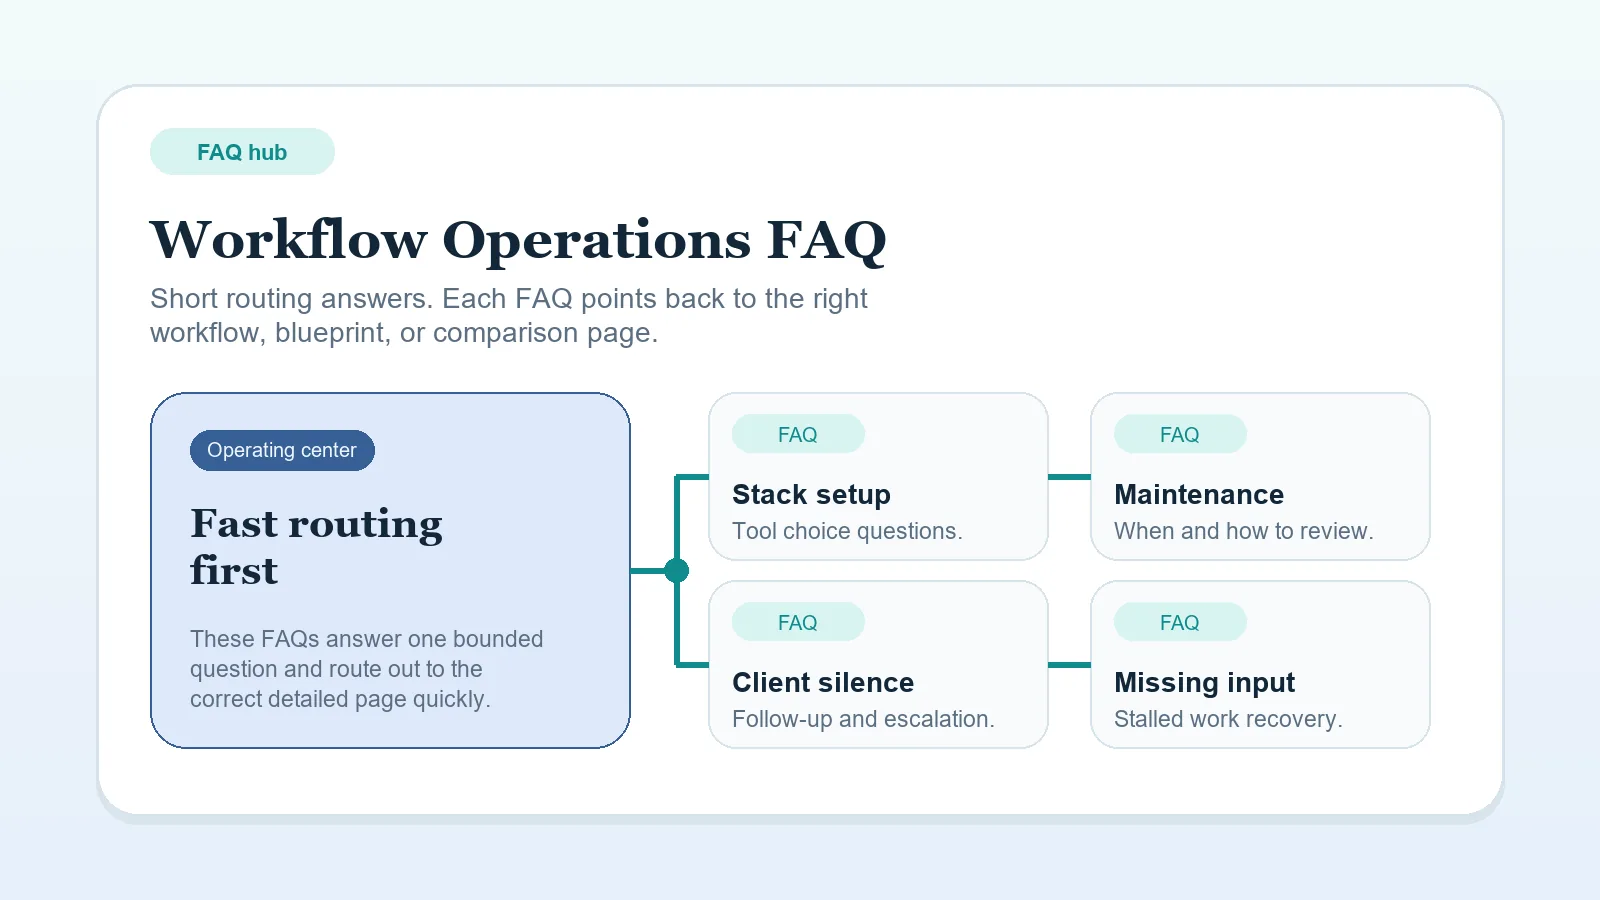
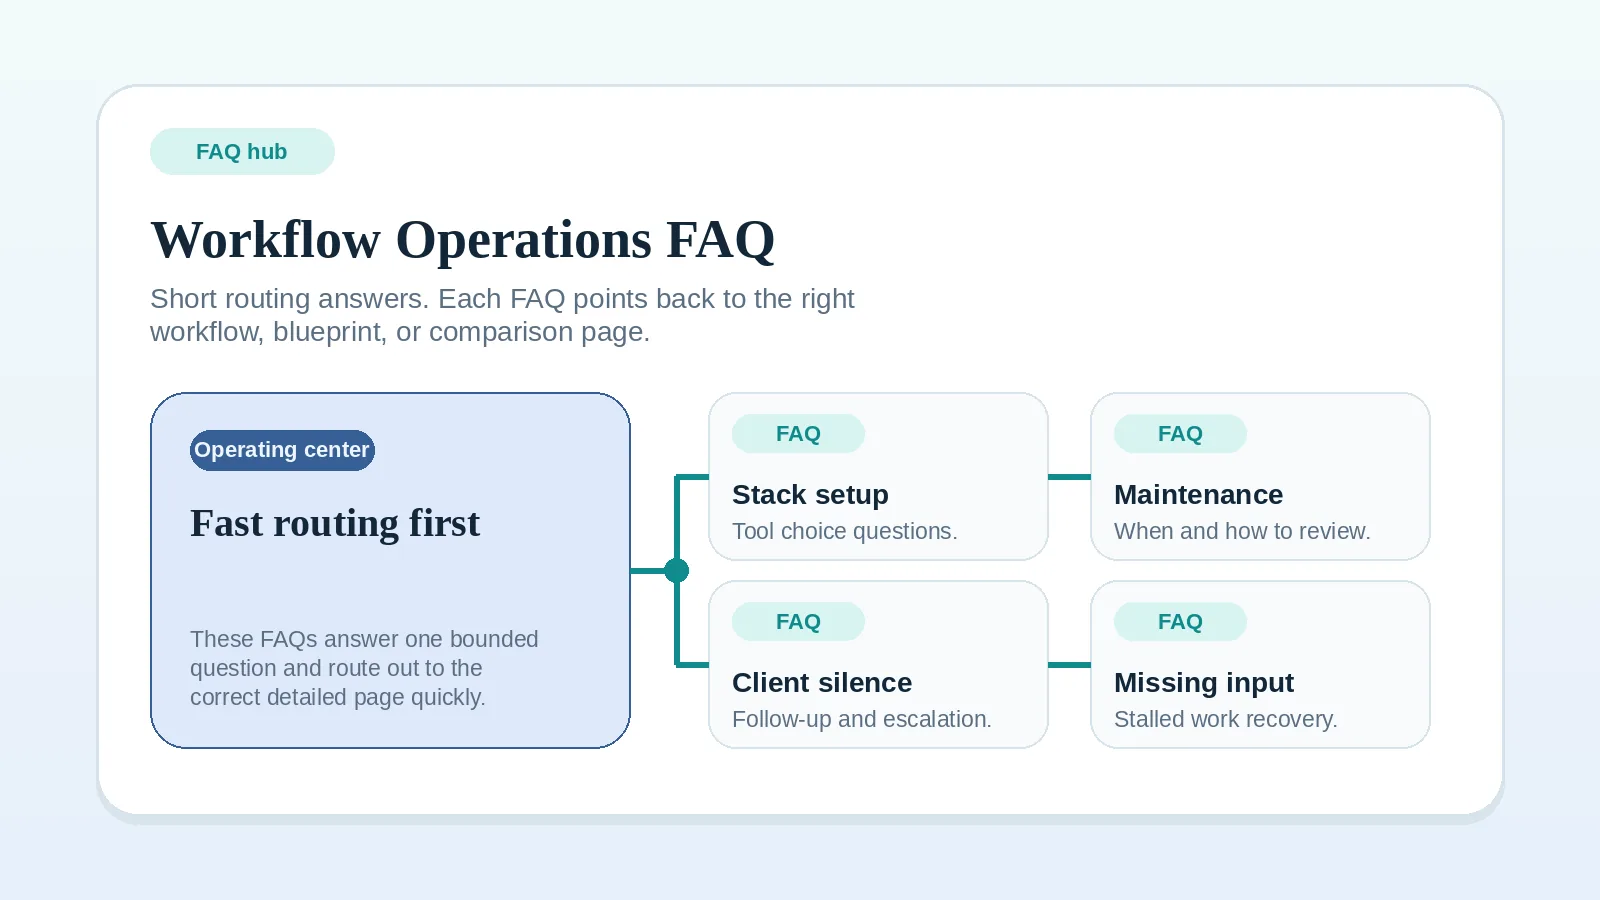
Fix remaining feature images

diff --git a/tools/feature-images/feature_images/templates/hub_overview.py b/tools/feature-images/feature_images/templates/hub_overview.py
@@ -12,7 +12,7 @@ def render_hub_overview(spec, context):
 
     anchor_box = (150, 392, 630, 748)
     helpers["rounded_box"](draw, anchor_box, fill=palette["secondary_soft"], outline=palette["secondary"], width=2, radius=36)
-    helpers["pill"](draw, (190, 430, 374, 470), palette["secondary"], "Operating center", fonts["small"], "#eef6ff")
+    helpers["pill"](draw, (190, 430, 374, 470), palette["secondary"], "Operating center", fonts["pill"], "#eef6ff")
     helpers["draw_text_block"](draw, spec["anchor"]["title"], fonts["panel_title"], palette["ink"], (190, 500, 330, 110), 10, report, "hub anchor title", max_lines=2)
     helpers["draw_text_block"](draw, spec["anchor"]["body"], fonts["card_body"], palette["muted"], (190, 626, 360, 82), 8, report, "hub anchor body", max_lines=3)
 
@@ -25,7 +25,7 @@ def render_hub_overview(spec, context):
     ]
     for box, module in zip(module_boxes, modules):
         helpers["rounded_box"](draw, box, fill="#f8fbfd", outline=palette["stroke"], width=2, radius=28)
-        helpers["pill"](draw, (box[0] + 24, box[1] + 22, box[0] + 156, box[1] + 60), palette["accent_soft"], module["kicker"], fonts["small"], palette["accent"])
+        helpers["pill"](draw, (box[0] + 24, box[1] + 22, box[0] + 156, box[1] + 60), palette["accent_soft"], module["kicker"], fonts["pill"], palette["accent"])
         draw.text((box[0] + 24, box[1] + 86), module["title"], font=fonts["card_title"], fill=palette["ink"])
         helpers["draw_text_block"](draw, module["detail"], fonts["card_body"], palette["muted"], (box[0] + 24, box[1] + 126, 280, 64), 6, report, f"hub module {module['title']}", max_lines=2)
 

diff --git a/tools/feature-images/feature_images/templates/workflow_map.py b/tools/feature-images/feature_images/templates/workflow_map.py
@@ -40,7 +40,7 @@ def render_workflow_map(spec, context):
         box = (x, top_y, x + card_width, top_y + card_height)
         fill = [palette["accent_soft"], palette["secondary_soft"], palette["warm_soft"], palette["good_soft"]][index % 4]
         helpers["rounded_box"](draw, box, fill=fill, outline=palette["stroke"], width=2, radius=28)
-        helpers["pill"](draw, (x + 24, top_y + 24, x + 148, top_y + 68), palette["frame"], item["kicker"], fonts["small"], palette["muted"])
+        helpers["pill"](draw, (x + 24, top_y + 24, x + 148, top_y + 68), palette["frame"], item["kicker"], fonts["pill"], palette["muted"])
         draw.text((x + 28, top_y + 88), item["label"], font=fonts["panel_title"], fill=palette["ink"])
         if index < len(items) - 1:
             draw.line((x + card_width, connector_y, x + card_width + gap, connector_y), fill=palette["accent"], width=8)

diff --git a/TRACKER.md b/TRACKER.md
@@ -10,7 +10,7 @@ Read this after `AGENT.md`. This is the live project tracker for current state, 
 - Priority cluster posture: the workflow cluster remains the strongest first operational path; blueprint and comparison clusters stay downstream of workflow diagnosis.
 - Content structure status: homepage, hubs, cornerstone pages, and support gating have already received multiple tightening passes; support pages should stay subordinate to workflow, blueprint, and comparison pages.
 - Strongest current clusters: client workflow systems, software stack blueprints, workflow comparisons.
-- Current feature-image status: 57 WebPs active across 6 categories (hubs, blueprints, comparisons, templates, glossary, faq, workflows); SVG fallbacks now replaced with WebP for all 4 workflow stage pages; `faq_card.py` fixed — route labels now use `draw_text_block` (overflow-safe), eyebrow pill normalized to `card_title` (28px), route note pills enlarged to `pill` (22px), row height increased from 66px to 74px; all 7 FAQ images regenerated; all 15 remaining checklist/worksheet images regenerated with the updated `checklist_card.py` (40px step labels, 28px tag pills); 4 new workflow WebPs generated (client-onboarding, milestone-delivery, invoice-payment, client-offboarding) using `workflow_map` template; front matter updated for 4 workflow stage pages to reference `.webp` paths.
+- Current feature-image status: 68 WebPs active across 6 categories (hubs, blueprints, comparisons, templates, glossary, faq, workflows); all workflow stage pages now use WebP (SVG fallbacks fully replaced); `workflow_map.py` and `hub_overview.py` kicker/anchor pills normalized from `small` (20px) to `pill` (22px); 6 new workflow WebPs generated (client-intake-qualification, proposal-contract-handoff, proposal-revision-approval, client-status-update, change-request, workflow-automation-basics) using `workflow_map` template; 5 existing workflow WebPs and 8 hub WebPs regenerated with the pill font fix; front matter updated for 6 workflow pages from `.svg` to `.webp`; `workflow-starter-pack` anchor body shortened to fix 3-line overflow.
 - Current build/deploy status: Cloudflare Pages builds from source, and `public/` is generated output that should remain ignored and untracked.
 - Current repo workflow: read `AGENT.md`, read `TRACKER.md`, make a scoped change, update `TRACKER.md`, then commit and push if successful.
 - Current operating rhythm: Claude Code is the daily content/improvement tool; Codex is the default weekly review/fix tool and the monthly deeper audit tool; daily Codex use is reserved for heavy build weeks or pre-AdSense submission.
@@ -66,6 +66,8 @@ Priority URLs to monitor:
 - See `project-docs/BUILD-VALIDATION.md` for the full build/validation reference.
 
 ## Recent completed passes
+
+- 2026-05-03 remaining feature image consistency pass: reviewed workflow guide cards (6 pages still on SVG), workflow/system overview cards, hub overview cards, and workflow starter pack; root causes found: (1) 6 workflow stage pages (client-intake, proposal-contract-handoff, proposal-revision-approval, client-status-update, change-request, workflow-automation-basics) had no `workflow_map` data config — using 2.4KB SVG placeholders; (2) `workflow_map.py` kicker stage-number pills used `fonts["small"]` (20px) — too small at card size; (3) `hub_overview.py` "Operating center" pill and module kicker pills used `fonts["small"]` (20px) — same issue; (4) `workflow-starter-pack` anchor body was too long — truncated at 3 lines with warning; shared template fixes: `workflow_map.py` and `hub_overview.py` kicker/anchor pills changed from `small` (20px) to `pill` (22px); per-image work: 6 new workflow data configs created; 6 new workflow WebPs generated; 5 existing workflow WebPs regenerated (template fix); 8 hub WebPs regenerated (template fix); `workflow-starter-pack` anchor body shortened to resolve overflow warning; front matter updated for 6 workflow pages from `.svg` to `.webp`; all 19 images generated with no warnings; validation: `git diff --check` clean; Hugo build clean with Hugo v0.161.1+extended, 86 pages, no errors, no warnings; `public/` remained ignored/generated; files changed: `workflow_map.py`, `hub_overview.py`, 6 new workflow data configs, 6 new workflow WebPs, 5 existing workflow WebPs, 8 hub WebPs, `workflow-starter-pack.json`, 6 content front matter files, `TRACKER.md`; next recommended action: wait for the next GSC data cycle before another SEO response pass.
 
 - 2026-05-03 feature image audit and consistency pass: reviewed FAQ cards, checklist/template cards, workflow guide cards, and workflow starter pack/supporting hub cards; root causes found: (1) `faq_card.py` used `draw.text()` directly for route labels and problem label — overflow risk for longer labels; eyebrow pill used `fonts["pill"]` (22px) instead of `fonts["card_title"]` (28px), inconsistent with `checklist_card`; route note pills used `fonts["small"]` (20px), too small at card size; row height was 66px; (2) 15 checklist/worksheet images had not been regenerated with the updated `checklist_card.py` from the 2026-05-02 pass — still rendering at old small font sizes (28px step labels, 20px pills); (3) 4 workflow stage pages (client-onboarding, milestone-delivery, invoice-payment, client-offboarding) used plain SVG fallbacks (2.4KB each, showing only 4 colored boxes with 1-word labels) — under-communicating page purpose; shared fixes: (1) `faq_card.py` updated — `draw_text_block` for route labels and problem label, eyebrow normalized to `card_title` (28px), route note pills enlarged to `pill` (22px), row height increased to 74px, row spacing updated to 88; (2) 4 JSON workflow data configs created under `tools/feature-images/feature_images/data/workflows/` using `workflow_map` template with 4-stage flows and two supporting note boxes; per-image work: 7 FAQ images regenerated with improved `faq_card.py`; 15 remaining checklist/worksheet images regenerated with the updated `checklist_card.py` (40px step labels, 28px pills, 74px rows); 4 new workflow WebPs generated; front matter updated for 4 workflow stage pages from `.svg` to `.webp`; all 26 images generated with no warnings; filenames and front matter references stable for the 15 checklist regenerations; 4 workflow pages reference new WebP paths; validation: `git diff --check` clean; Hugo build clean with Hugo v0.161.1+extended, 86 pages, no errors, no warnings; `public/` remained ignored/generated; files changed: `tools/feature-images/feature_images/templates/faq_card.py`, 4 new workflow data configs, 7 FAQ WebPs, 15 template/checklist WebPs, 4 new workflow WebPs, 4 content front matter files, `TRACKER.md`; next recommended action: wait for the next GSC data cycle before another SEO response pass.
 

diff --git a/content/client-workflow-systems/proposal-revision-and-approval-workflow-for-freelancers-and-solo-service-businesses.md b/content/client-workflow-systems/proposal-revision-and-approval-workflow-for-freelancers-and-solo-service-businesses.md
@@ -2,7 +2,7 @@
 title = "Proposal Revision and Approval Workflow for Freelancers and Solo Service Businesses"
 description = "A proposal revision and approval workflow for solo service businesses that need clearer review rounds, approval ownership, and cleaner transitions from proposal review into contract and onboarding."
 summary = "Use this workflow to control proposal review, capture revisions cleanly, define final approval clearly, and prevent pre-signature edits from turning into post-signature scope confusion."
-feature_image = "/images/features/workflows/proposal-revision-approval-workflow.svg"
+feature_image = "/images/features/workflows/proposal-revision-approval-workflow.webp"
 feature_image_alt = "Editorial workflow illustration representing proposal review stages, revision rounds, approval checkpoints, and contract transition."
 draft = false
 date = 2026-04-10T00:00:00Z

diff --git a/content/client-workflow-systems/sample-intake-guide.md b/content/client-workflow-systems/sample-intake-guide.md
@@ -3,7 +3,7 @@ title = "How to Build a Client Intake and Qualification Workflow"
 slug = "how-to-build-a-client-intake-and-qualification-workflow"
 description = "A practical intake and qualification workflow for solo operators who need fewer low-fit calls and stronger lead filtering before delivery starts."
 summary = "Set up intake questions, fit criteria, and a clear go or no-go decision path before discovery calls start filling the calendar."
-feature_image = "/images/features/workflows/client-intake-qualification-workflow.svg"
+feature_image = "/images/features/workflows/client-intake-qualification-workflow.webp"
 feature_image_alt = "Illustrated intake workflow with qualification steps, routing logic, and decision checkpoints."
 draft = false
 date = 2026-03-05T00:00:00Z

diff --git a/content/client-workflow-systems/change-request-workflow-for-freelancers-and-consultants.md b/content/client-workflow-systems/change-request-workflow-for-freelancers-and-consultants.md
@@ -2,7 +2,7 @@
 title = "Change Request Workflow for Freelancers and Consultants"
 description = "A practical change request workflow that helps solo operators handle scope changes without hidden rework, awkward approvals, or billing drift."
 summary = "Use this guide to route scope changes clearly, protect delivery flow, and decide when a request should be accepted, repriced, deferred, or declined."
-feature_image = "/images/features/workflows/change-request-workflow.svg"
+feature_image = "/images/features/workflows/change-request-workflow.webp"
 feature_image_alt = "Editorial workflow illustration representing controlled scope changes, impact assessment, and approval decisions."
 draft = false
 date = 2026-03-27T00:00:00Z

diff --git a/content/client-workflow-systems/client-status-update-workflow-for-freelancers-and-consultants.md b/content/client-workflow-systems/client-status-update-workflow-for-freelancers-and-consultants.md
@@ -2,7 +2,7 @@
 title = "Client Status Update Workflow for Freelancers and Consultants"
 description = "A practical client status update workflow that keeps communication calm, visible, and useful without creating extra admin."
 summary = "Use this guide to standardize weekly client updates, reduce reactive check-ins, and keep milestones, blockers, and next actions visible."
-feature_image = "/images/features/workflows/client-status-update-workflow.svg"
+feature_image = "/images/features/workflows/client-status-update-workflow.webp"
 feature_image_alt = "Editorial workflow illustration representing structured client status updates, blockers, approvals, and next actions."
 draft = false
 date = 2026-03-29T00:00:00Z

diff --git a/content/client-workflow-systems/proposal-to-contract-handoff.md b/content/client-workflow-systems/proposal-to-contract-handoff.md
@@ -2,7 +2,7 @@
 title = "Proposal-to-Contract Handoff Workflow Setup"
 description = "A proposal-to-contract handoff workflow for freelancers and consultants who need scope, timeline, and payment terms aligned before kickoff."
 summary = "Use this guide to turn discovery context into a review-ready proposal and contract package with clearer scope, ownership, and kickoff readiness."
-feature_image = "/images/features/workflows/proposal-contract-handoff.svg"
+feature_image = "/images/features/workflows/proposal-contract-handoff.webp"
 feature_image_alt = "Illustrated handoff scene with two workflow panels connected between proposal and contract stages."
 draft = false
 date = 2026-03-03T00:00:00Z

diff --git a/content/client-workflow-systems/workflow-automation-basics-for-solo-service-businesses.md b/content/client-workflow-systems/workflow-automation-basics-for-solo-service-businesses.md
@@ -2,7 +2,7 @@
 title = "Workflow Automation Basics for Solo Service Businesses"
 description = "A practical automation guide for solo operators who want to reduce repetitive admin without creating brittle systems."
 summary = "Automate only stable steps: use this guide to choose safe automation targets, avoid over-automation, and keep operations reliable."
-feature_image = "/images/features/workflows/workflow-automation-basics.svg"
+feature_image = "/images/features/workflows/workflow-automation-basics.webp"
 feature_image_alt = "Illustrated automation workflow with modular steps and connected repeatable tasks."
 draft = false
 date = 2026-03-06T00:00:00Z
